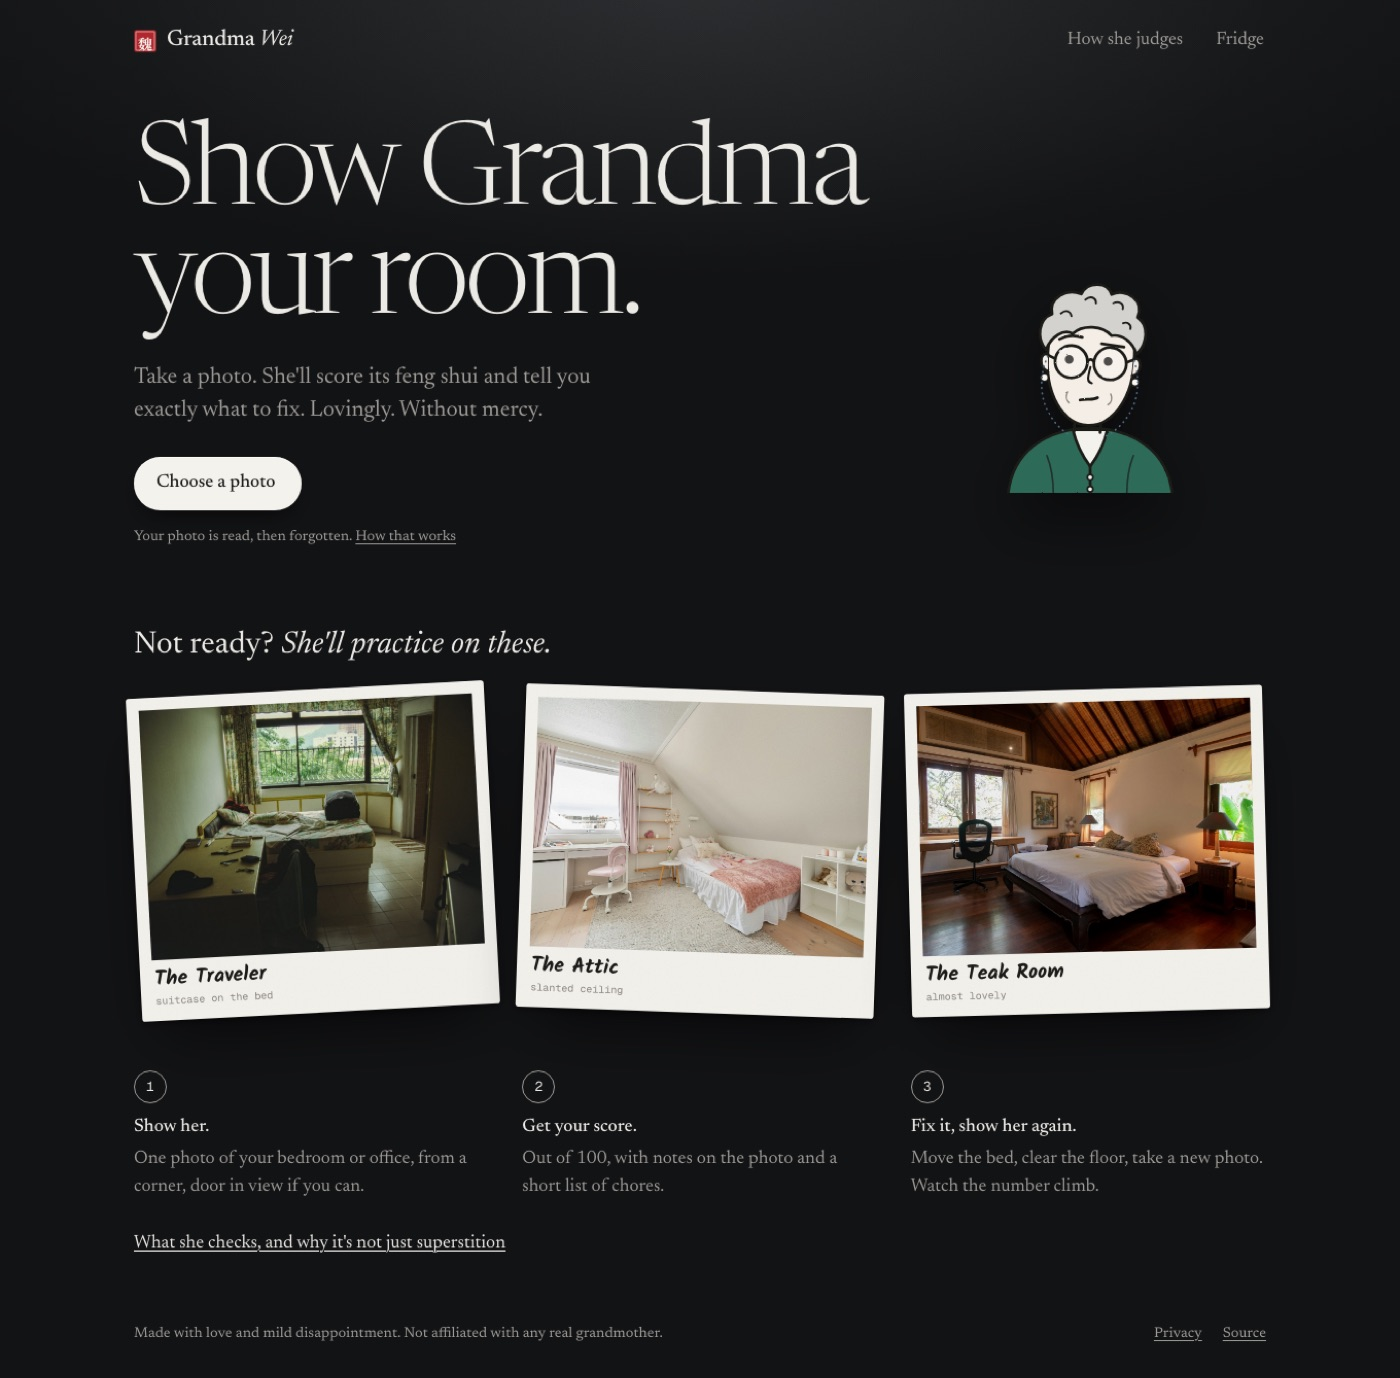
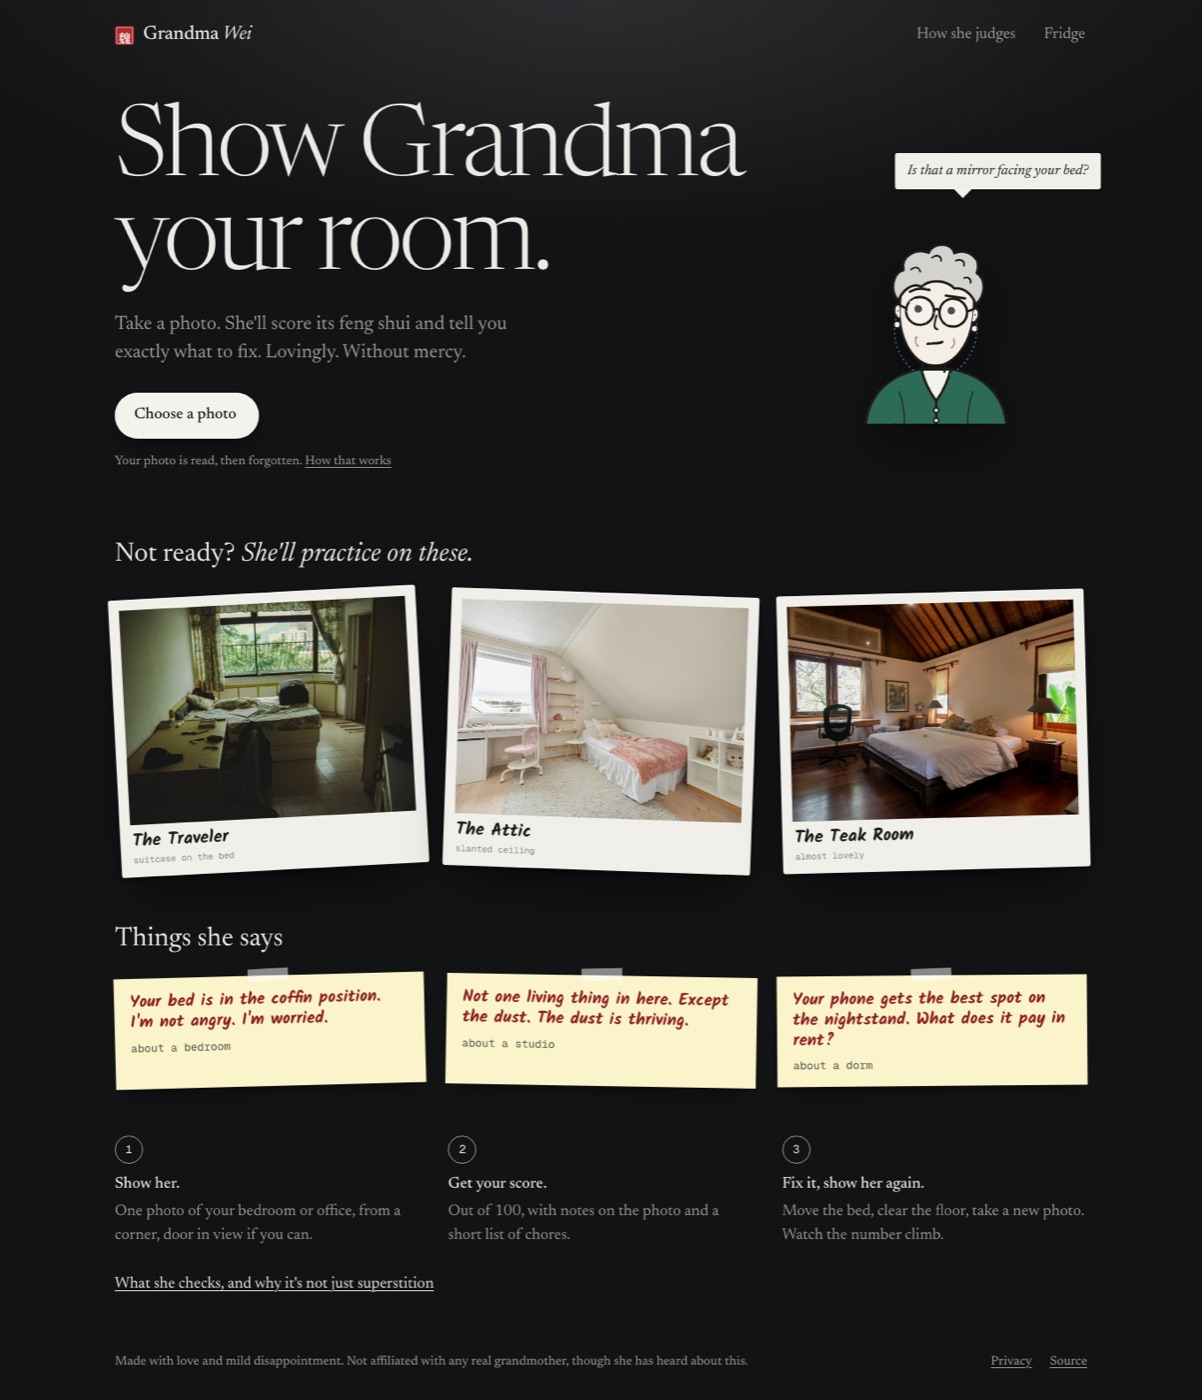
Put her voice in more places
A row of things she says on the home page (real lines from her bank,
not testimonials), funnier muttering while she looks, a reaction when
you pretend the chores, a 404 page in her words, and a warmer empty
fridge. The test server gets a high rate limit so repeated runs pass.

diff --git a/apps/web/src/pages/Home.tsx b/apps/web/src/pages/Home.tsx
@@ -10,6 +10,17 @@ const TEASERS = [
   "I can see the laundry from here.",
   "Your bed. We need to talk about your bed.",
   "Sit. Show Grandma.",
+  "I already don't trust the mirror.",
+  "Just the bedroom. For now.",
+  "Everyone shows me eventually.",
+  "I brought my good glasses.",
+];
+
+/** Real lines from her bank, so the home page shows exactly how she talks. Not testimonials. */
+const OVERHEARD = [
+  { line: "Your bed is in the coffin position. I'm not angry. I'm worried.", room: "about a bedroom" },
+  { line: "Not one living thing in here. Except the dust. The dust is thriving.", room: "about a studio" },
+  { line: "Your phone gets the best spot on the nightstand. What does it pay in rent?", room: "about a dorm" },
 ];
 
 export const PRACTICE = [
@@ -98,6 +109,18 @@ export function Home() {
                   <span className="mono">{s.note}</span>
                 </span>
               </a>
+            </li>
+          ))}
+        </ul>
+      </section>
+
+      <section className="overheard shell" aria-labelledby="overheard-h">
+        <h2 id="overheard-h">Things she says</h2>
+        <ul>
+          {OVERHEARD.map((o, i) => (
+            <li key={o.line} className="overheard-note" style={{ ["--tilt" as string]: `${[-1.5, 1, -0.5][i]}deg` }}>
+              <p>{o.line}</p>
+              <span className="mono">{o.room}</span>
             </li>
           ))}
         </ul>

diff --git a/apps/web/src/App.tsx b/apps/web/src/App.tsx
@@ -6,6 +6,7 @@ import { onLinkClick, usePath } from "./lib/router";
 import { useToast } from "./lib/toast";
 import { Fridge } from "./pages/Fridge";
 import { Home } from "./pages/Home";
+import { NotFound } from "./pages/NotFound";
 import { How } from "./pages/How";
 import { Privacy } from "./pages/Privacy";
 import { Reading } from "./pages/Reading";
@@ -20,7 +21,8 @@ function route(path: string) {
   if (path === "/fridge") return <Fridge />;
   if (path === "/how") return <How />;
   if (path === "/privacy") return <Privacy />;
-  return <Home />;
+  if (path === "/" || path === "") return <Home />;
+  return <NotFound />;
 }
 
 export function App() {
@@ -55,7 +57,7 @@ export function App() {
       <div id="main">{route(path)}</div>
       <footer className="footer shell">
         <span>
-          Made with love and mild disappointment. Not affiliated with any real grandmother.
+          Made with love and mild disappointment. Not affiliated with any real grandmother, though she has heard about this.
         </span>
         <span className="footer-links">
           <a href="/privacy" onClick={onLinkClick}>

diff --git a/apps/web/src/styles/screens.css b/apps/web/src/styles/screens.css
@@ -1198,3 +1198,55 @@
 .fridge-empty-first {
   margin-bottom: 28px;
 }
+
+/* ---------------- overheard ---------------- */
+.overheard {
+  padding-top: 56px;
+}
+.overheard h2 {
+  font-size: clamp(24px, 3vw, 30px);
+  font-weight: 400;
+  margin-bottom: 18px;
+}
+.overheard ul {
+  list-style: none;
+  padding: 0;
+  display: grid;
+  gap: 16px;
+}
+.overheard-note {
+  background: var(--note);
+  color: var(--ink);
+  padding: 16px 18px 14px;
+  transform: rotate(var(--tilt));
+  box-shadow: 0 14px 22px -14px rgba(0, 0, 0, 0.7);
+  position: relative;
+}
+.overheard-note::before {
+  content: "";
+  position: absolute;
+  top: -8px;
+  left: 50%;
+  width: 46px;
+  height: 14px;
+  transform: translateX(-50%) rotate(-2deg);
+  background: rgba(255, 255, 255, 0.5);
+}
+.overheard-note p {
+  font-family: var(--hand);
+  font-weight: 700;
+  font-size: 19px;
+  line-height: 1.2;
+  color: var(--seal-deep);
+}
+.overheard-note .mono {
+  display: block;
+  margin-top: 8px;
+  color: var(--ink-soft);
+}
+@media (min-width: 760px) {
+  .overheard ul {
+    grid-template-columns: repeat(3, 1fr);
+    gap: 24px;
+  }
+}

diff --git a/apps/web/src/components/Looking.tsx b/apps/web/src/components/Looking.tsx
@@ -7,11 +7,14 @@ const LINES = [
   "Hmm.",
   "Where's the door?",
   "Oh.",
-  "I see.",
+  "Let me get my other glasses.",
   "Is that what I think it is?",
-  "Let me count the chargers.",
+  "Counting the chargers. Still counting.",
   "Mm-hm.",
-  "Writing this down.",
+  "Checking under the bed. Mentally.",
+  "I've seen this before.",
+  "Writing this down. In pen.",
+  "Oh, I have notes.",
 ];
 
 /** While her eyes read the photo: the photo on the table, a loupe drifting over it, her muttering. */
@@ -32,7 +35,7 @@ export function Looking({ src }: { src: string }) {
         <p className="looking-line" key={i}>
           {LINES[i]}
         </p>
-        <p className="mono">She takes about twenty seconds. She's thorough.</p>
+        <p className="mono">About twenty seconds. She's thorough. She's also judging the lighting.</p>
       </div>
     </section>
   );

diff --git a/apps/web/src/pages/Fridge.tsx b/apps/web/src/pages/Fridge.tsx
@@ -40,7 +40,7 @@ export function Fridge() {
   const remove = async (v: Visit) => {
     for (const s of v.shares ?? []) await api.deleteShare(s.id, s.token).catch(() => {});
     await deleteVisit(v.id);
-    toast("Gone. She forgets nothing, but this browser does.");
+    toast("Gone from this browser. She remembers, but she won't bring it up.");
     load();
   };
   const wipe = async () => {
@@ -60,7 +60,7 @@ export function Fridge() {
       {real.length === 0 && (
         <div className="empty-state fridge-empty-first">
           <Grandma mood="unimpressed" size={110} />
-          <p>Nothing on the fridge yet. Show her a room and the magnets start coming.</p>
+          <p>Nothing on the fridge yet. Even the fridge is disappointed. Show her a room and the magnets start coming.</p>
           <PhotoPicker />
         </div>
       )}

diff --git a/apps/web/playwright.config.ts b/apps/web/playwright.config.ts
@@ -20,7 +20,7 @@ export default defineConfig({
     { name: "desktop", use: { viewport: { width: 1360, height: 900 } } },
   ],
   webServer: {
-    command: `./node_modules/.bin/wrangler d1 migrations apply grandma-wei --local && ./node_modules/.bin/wrangler pages dev dist --port ${PORT} --binding FAKE_EYES=1`,
+    command: `./node_modules/.bin/wrangler d1 migrations apply grandma-wei --local && ./node_modules/.bin/wrangler pages dev dist --port ${PORT} --binding FAKE_EYES=1 --binding READS_PER_HOUR=100000`,
     url: `http://localhost:${PORT}/api/health`,
     reuseExistingServer: !process.env.CI,
     timeout: 120_000,

diff --git a/apps/web/src/pages/NotFound.tsx b/apps/web/src/pages/NotFound.tsx
@@ -1,0 +1,15 @@
+import { Grandma } from "../components/Grandma";
+import { onLinkClick } from "../lib/router";
+
+/** A page that doesn't exist, in her words. */
+export function NotFound() {
+  return (
+    <main className="shell trouble fade-in">
+      <Grandma mood="unimpressed" size={140} />
+      <p className="trouble-msg">This page doesn't exist. Like the floor in some rooms I've seen.</p>
+      <a className="btn btn-paper" href="/" onClick={onLinkClick}>
+        Back to the kitchen
+      </a>
+    </main>
+  );
+}

diff --git a/apps/web/src/pages/Reading.tsx b/apps/web/src/pages/Reading.tsx
@@ -215,6 +215,7 @@ function Result({ env, photo, visit }: { env: Envelope; photo: string; visit: Vi
                       setDone(new Set(all));
                       setTab("sketch");
                       setStamp((n) => n + 1);
+                      toast("She knows you didn't. But fine, here's how it would look.");
                     }}
                   >
                     <span className="dot" aria-hidden="true" />
